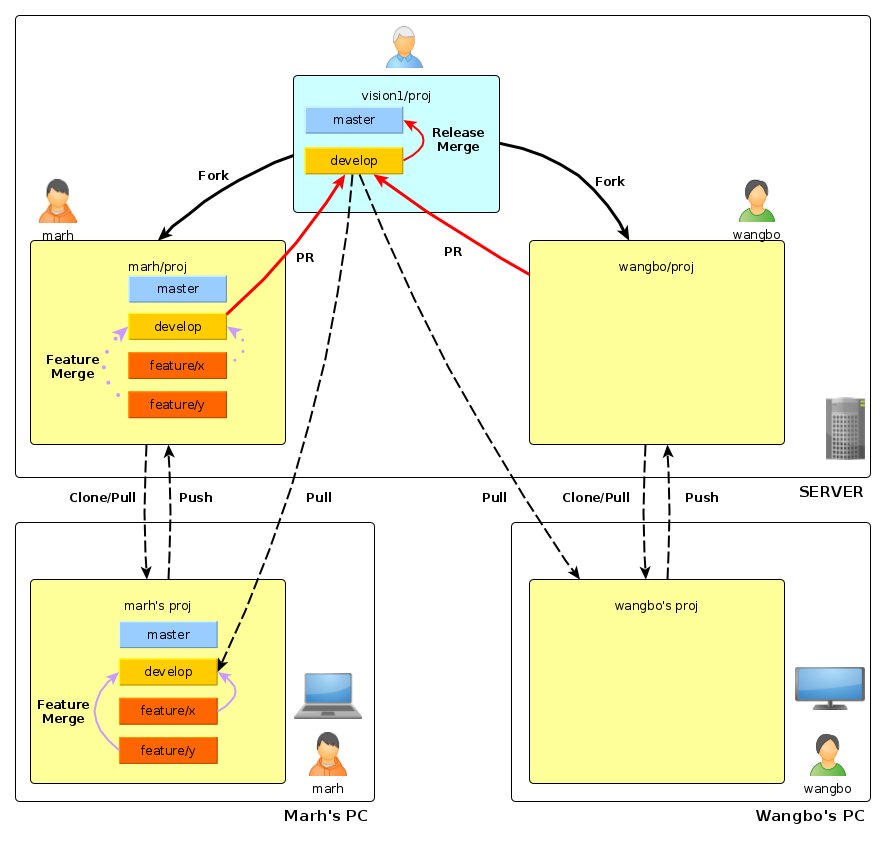
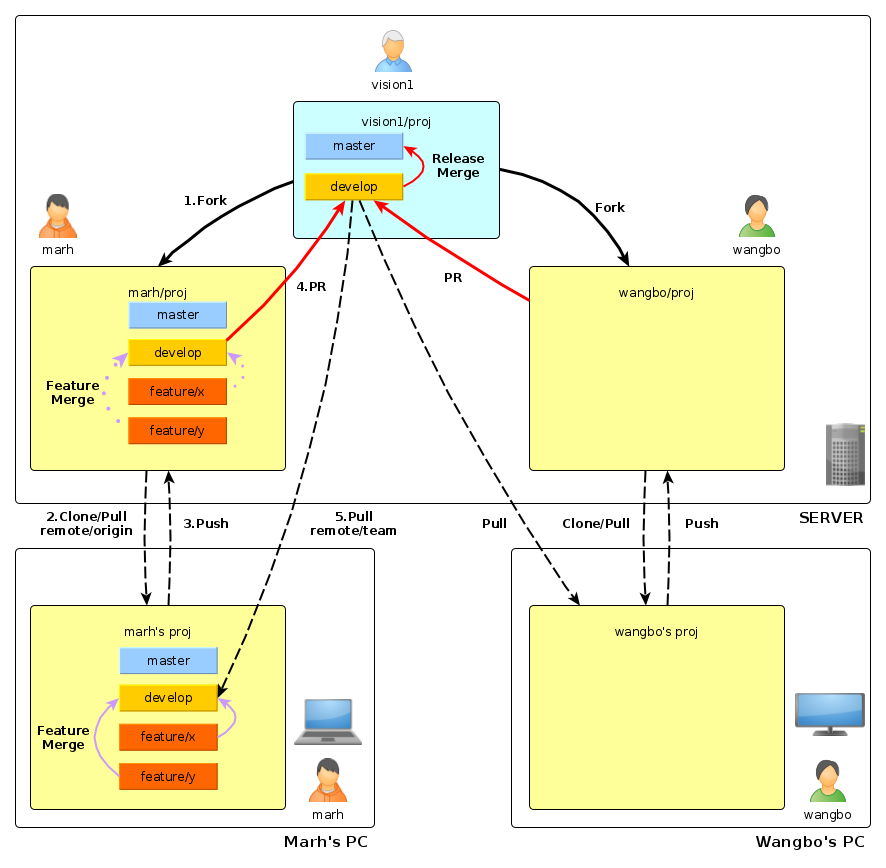
梳理一下项目介绍

diff --git a/gitflow_doc.md b/gitflow_doc.md
@@ -2,14 +2,32 @@
 # GitFlow项目介绍
 
 为了更有力，更深度，更快速的协作开发。并且更好的进行版本管理和控制项目代码，我们将采用自定义的GitFlow工作流模式。
+完整的GitFlow分支适用于中大项目，操作起来较为复杂。在一般的小规模项目中，我们对gitflow实施了定制。只保留核心的master和develop分支，便于实践和推广。
+流程示例如下：
 ![示例](./images/git-flow.png)
+图中，虚线箭头为跨机器信息流，红箭头表示关键步骤，虚点为镜像分支关系。
 
 ## 术语定义
 - gitweb: 服务器上git的web平台，用于存放代码。如github, 内部的gitea等
 - 箭头信息流表达（=>,->）: 其中双箭头=>表示服务器上repo之间的信息流，通过web按钮实现, 单箭头为本地到服务器之间的信息流
 
+## 主要流程
+主要流程如下：
+1. **Init 项目组创建项目**.  vision1/proj. ，由vision1完成，创建项目主仓库vision1/proj，创建相应的develop分支。
+2. **Develop 开发者fork项目并开发**. vision1/proj/develop => wangbo/proj/develop <-> wangbo's proj/develop.
+
+   1. 由wangbo fork主仓库到wangbo对该项目的远程镜像仓wangbo/proj，落在git服务器wangbo帐号下，然后wangbo clone所有分支到本地仓wangbo's proj。
+
+   2. wangbo后续的开发都是基于本地仓wangbo's proj和wangbo的镜像仓wangbo/proj同步开发。期间可以开发多个特性分支，并定期合并到本地的develop分支。
+   3. wangbo应实时拉取(pull)主仓库vision1/proj，并和本地合并(merge)，保持develop分支最新状态。
+
+3. **Merge 审核者审核并合并项目**. wangbo/proj/develop => vision1/proj/develop 镜像仓wangbo/proj准备好后. wangbo请求合并自己的远程仓的develop分支到主仓库的develop分支，vision1进行审核，决定接受PR或者打回重改。
+4. **Release 审核者发布版本**. vision1/proj/develop => vision1/proj/master. 审核者vision1根据需求发布，把主仓库develop merge到master，并根据情况打tag
+
+后文[演示](#4-gitflow简单示范)部分用两个账号做示范。
+
 ## 总体原则和指导
-- **master干净**。master干净不被污染，必须可运行。开发主要都在develop上完成，不论本地还是远程。develop测试通过以后，将其合并到master.
+- **master干净**。master干净不被污染，必须可运行。开发主要都在develop上完成，不论本地还是远程。主仓库develop测试通过以后，审核者将其合并到master.
 - **PR控制**。PR=Pull Request, 合并请求。代码管理的本质是对PR的管理。目标仓库的更改只能通过审核者通过的PR。不能直接更改，保证纯洁性。审核者只拥有主库的合并请求的权限，并没有主库的代码开发和推送权限。gitweb上PR面板中可用来审核者和开发者深入交流讨论该PR的细节。鼓励审核者和开发者多交流。
 - **分布开发**。每个开发者各开发各的，通过提交PR实现主仓库的功能更新。开发者日常都是在操作自己的镜像库，并及时从主库更新本地的代码。开发到一定阶段，主要功能完成，可以PR合并到主库。
 - **合并冲突本地化**。冲突来自于不一致，当主库被别人更新，自己本地又有更新时。从主库pull的时候就有发生冲突的可能性。在本地解决冲突，解决完和主库同步后，再提交新的修改。创建PR。若没解决冲突，提交的PR是无法被合并到主库的。所以，鼓励开发者从主库多pull, 勤pull，保证一致。不要拖得太久，不然主库和本地差异过大时，本地解决冲突变成一件难事。
@@ -21,8 +39,6 @@
   * [1.1.本地操作](#1-1-本地操作)
   * [1.2.远程操作](#1-2-远程操作)
 * [2.Gitflow简介](#2-gitflow简介)
-  * [2.1.分支简介](#2-1-分支简介)
-  * [2.2.流程概述](#2-2-流程概述)
 * [3.Gitflow功能命令](#3-gitflow功能命令)
 * [4.Gitflow简单示范](#4-gitflow简单示范)
 * [小贴士Tips](#小贴士tips)
@@ -56,8 +72,6 @@ git merge #分支合并
 
 GitFlow工作流定义了一个围绕项目发布的严格分支模型，它为不同的分支分配了明确的角色，并定义分支之间何时以及如何进行交互。[视频简介](https://www.bilibili.com/video/av32573821/)。适用于**多人操作一个共享仓库的情况**，小范围协作。
 
-## 2.1.分支简介
-
 GitFlow主要包含了以下分支：
 1. **master分支**：存储正式发布的产品，master分支上的产品要求随时处于可部署状态。master分支只能通过与其他分支合并请求PR来更新内容，禁止直接在master分支进行修改。
 1. **develop分支**：汇总开发者完成的工作成果，develop分支上的产品可以是缺失功能模块的半成品，但是已有的功能模块不能是半成品。develop分支只能通过与其他分支合并来更新内容，禁止直接在develop分支进行修改。
@@ -65,24 +79,6 @@ GitFlow主要包含了以下分支：
 1. **release分支**：当develop分支上的项目准备发布时，从develop分支上创建一个新的release分支，新建的release分支只能进行质量测试、bug修复、文档生成等面向发布的任务，不能再添加功能。这一系列发布任务完成后，需要将release分支合并到master分支上，并根据版本号为master分支添加tag，然后将release分支创建以来的修改合并回develop分支，最后删除release分支。
 1. **hotfix分支**：当master分支中的产品出现需要立即修复的bug时，从master分支上创建一个新的hotfix分支，并在hotfix分支上进行bug修复。修复完成后，需要将hotfix分支合并到master分支和develop分支，并为master分支添加新的版本号tag，最后删除hotfix分支。
 ![示例](./images/gitflow工作流.png)
-
-## 2.2.流程概述
-
-完整的GitFlow分支适用于中大项目，操作起来较为复杂。在一般的小规模项目中，我们对gitflow实施了定制。只保留核心的master和develop分支，便于实践和推广。
-
-下面[演示](#4-gitflow简单示范)部分用两个账号做示范，一个账号vision1是项目的创建者和审核者（对应于左图）,一个用户wangbo是开发人员（对应于右图）
-
-主要步骤如下：
-1. **Init 项目组创建项目**.  vision1/proj. ，由vision1完成，创建项目主仓库vision1/proj，并默认master分支。
-1. **Develop 开发者fork项目并开发**. vision1/proj/develop => wangbo/proj/develop <-> wangbo's proj/develop.
-
-   1. 由wangbo fork主仓库到wangbo对该项目的远程镜像仓wangbo/proj，落在git服务器wangbo帐号下，然后wangbo clone到本地仓wangbo's proj。
-
-   2. 创建develop分支。wangbo后续的开发都是基于本地的develop和远程的镜像仓协同开发。
-   3. wangbo应实时拉取主仓库，并和本地合并，保持最新状态。
-
-2. **Merge 审核者审核并合并项目**. wangbo/proj/develop => vision1/proj/develop wangbo远程仓ready后. 合并分支，开发者wangbo请求合并自己的远程仓的develop分支到主仓库的develop分支，vision1审核通过
-3. **Release 审核者发布版本**. vision1/proj/develop => vision1/proj/master. 审核者vision1根据需求发布，把主仓库develop merge到master，并根据情况打tag
 
 # 3.Gitflow功能命令
 
@@ -227,6 +223,8 @@ pull下来后，参照第4-7步进行就OK了
 ![zsh主体](./images/zsh_theme.png)
 
 - git相关的配置信息在配置文档里，如remote名字地址，合并信息等，项目相关的.git/config里，全局的在~/.gitconfig. 有时候，直接文本修改git config文件更方便
+
+- 每个项目git初始化是会产生一个默认的master分支
 
 - 本开发者地库也开develop分支，这样推送的时候git会匹配分支，将本地的develop推送到上游仓库的develop
 
